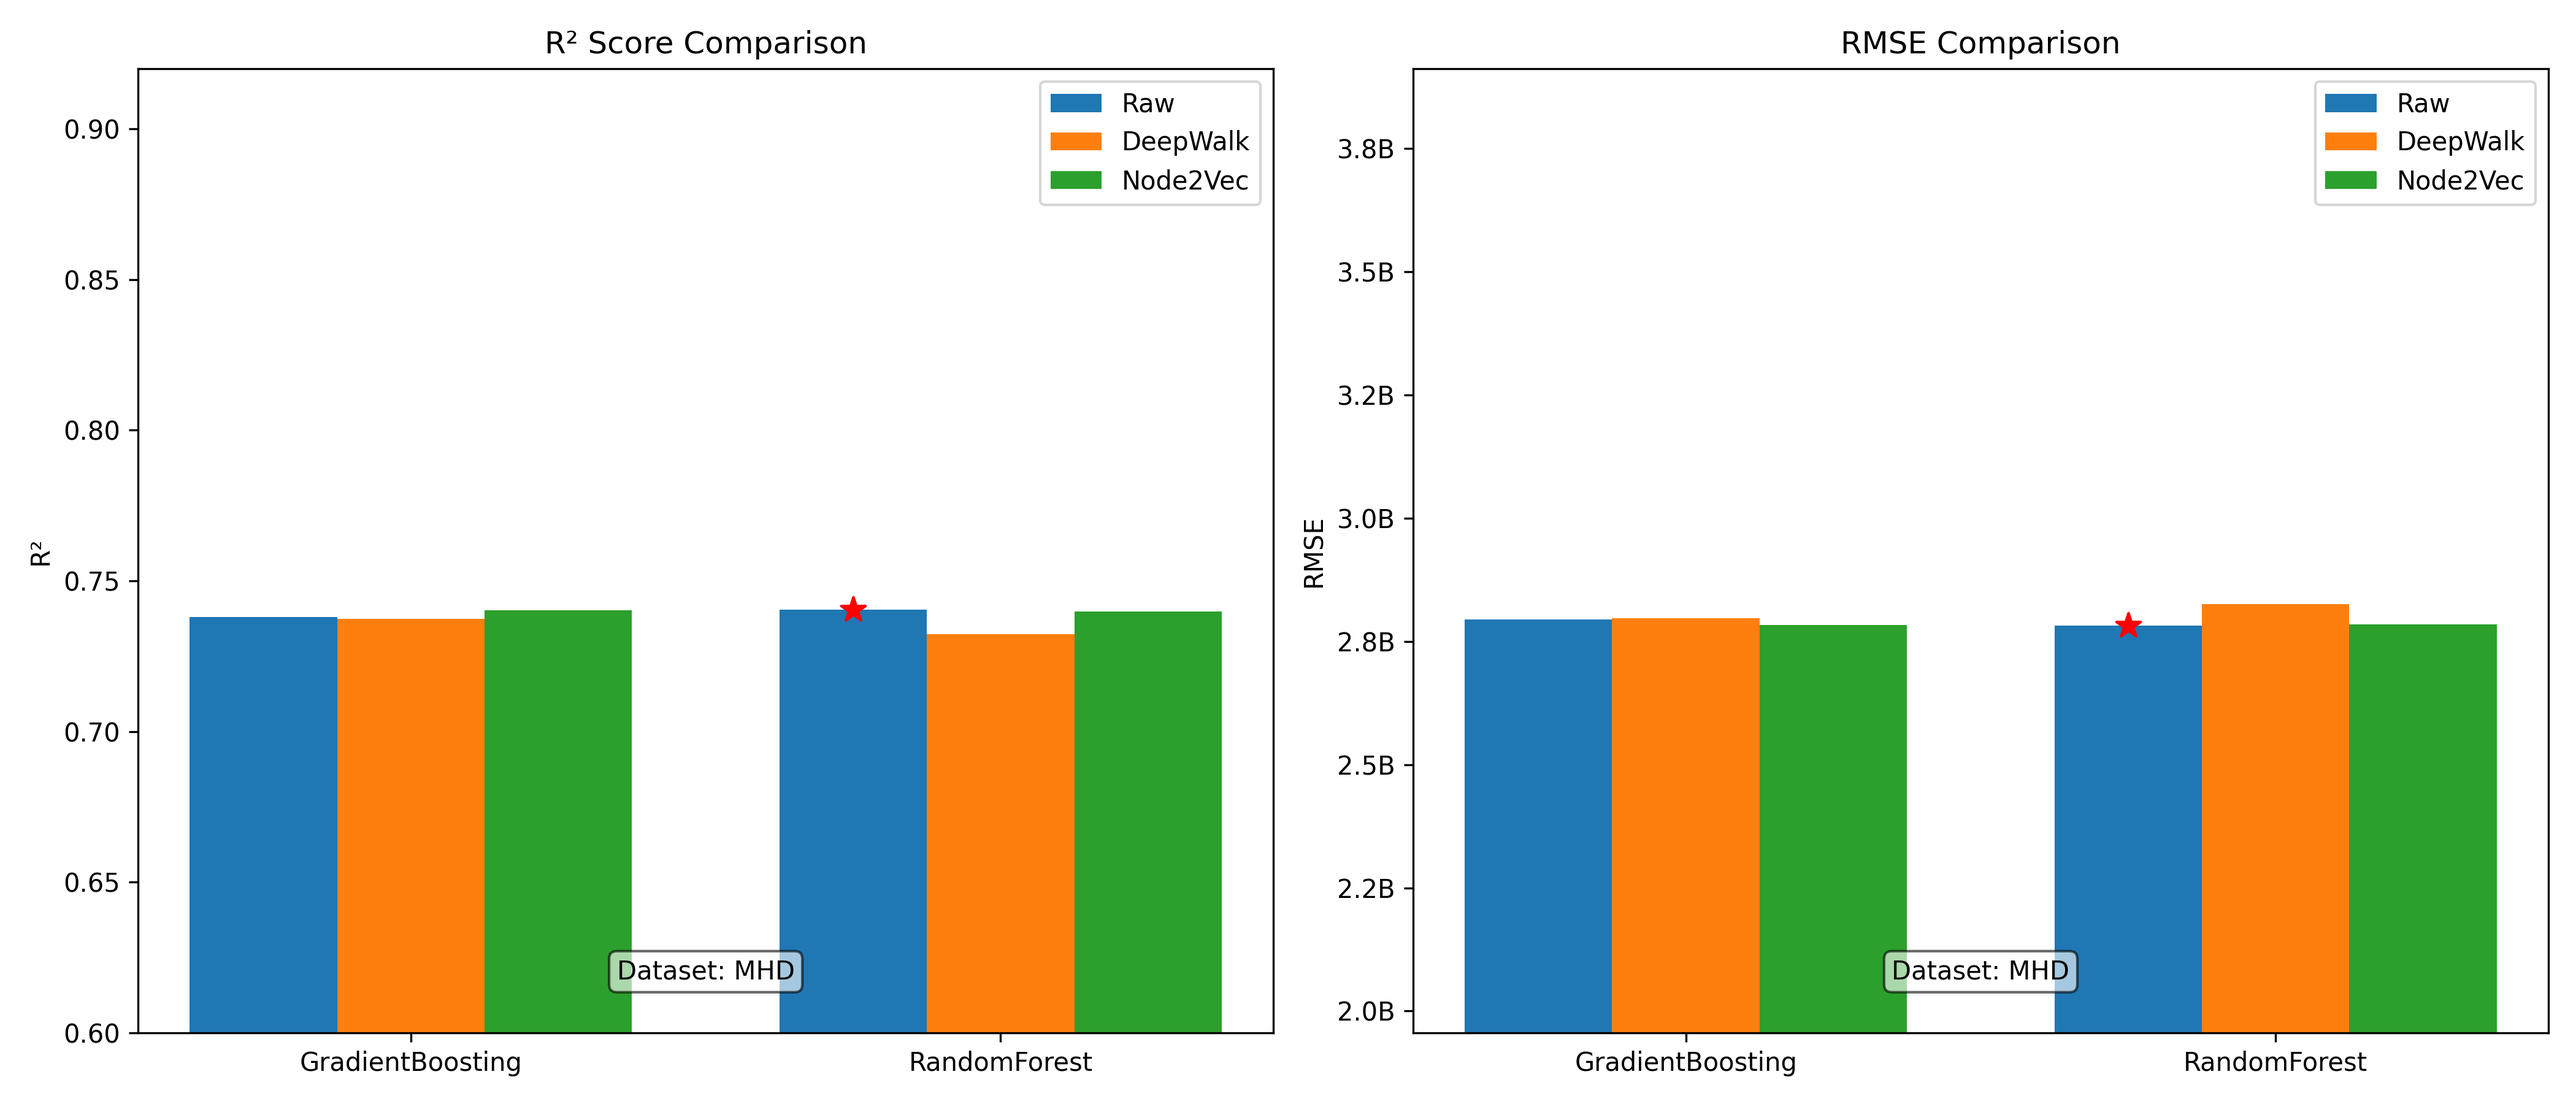
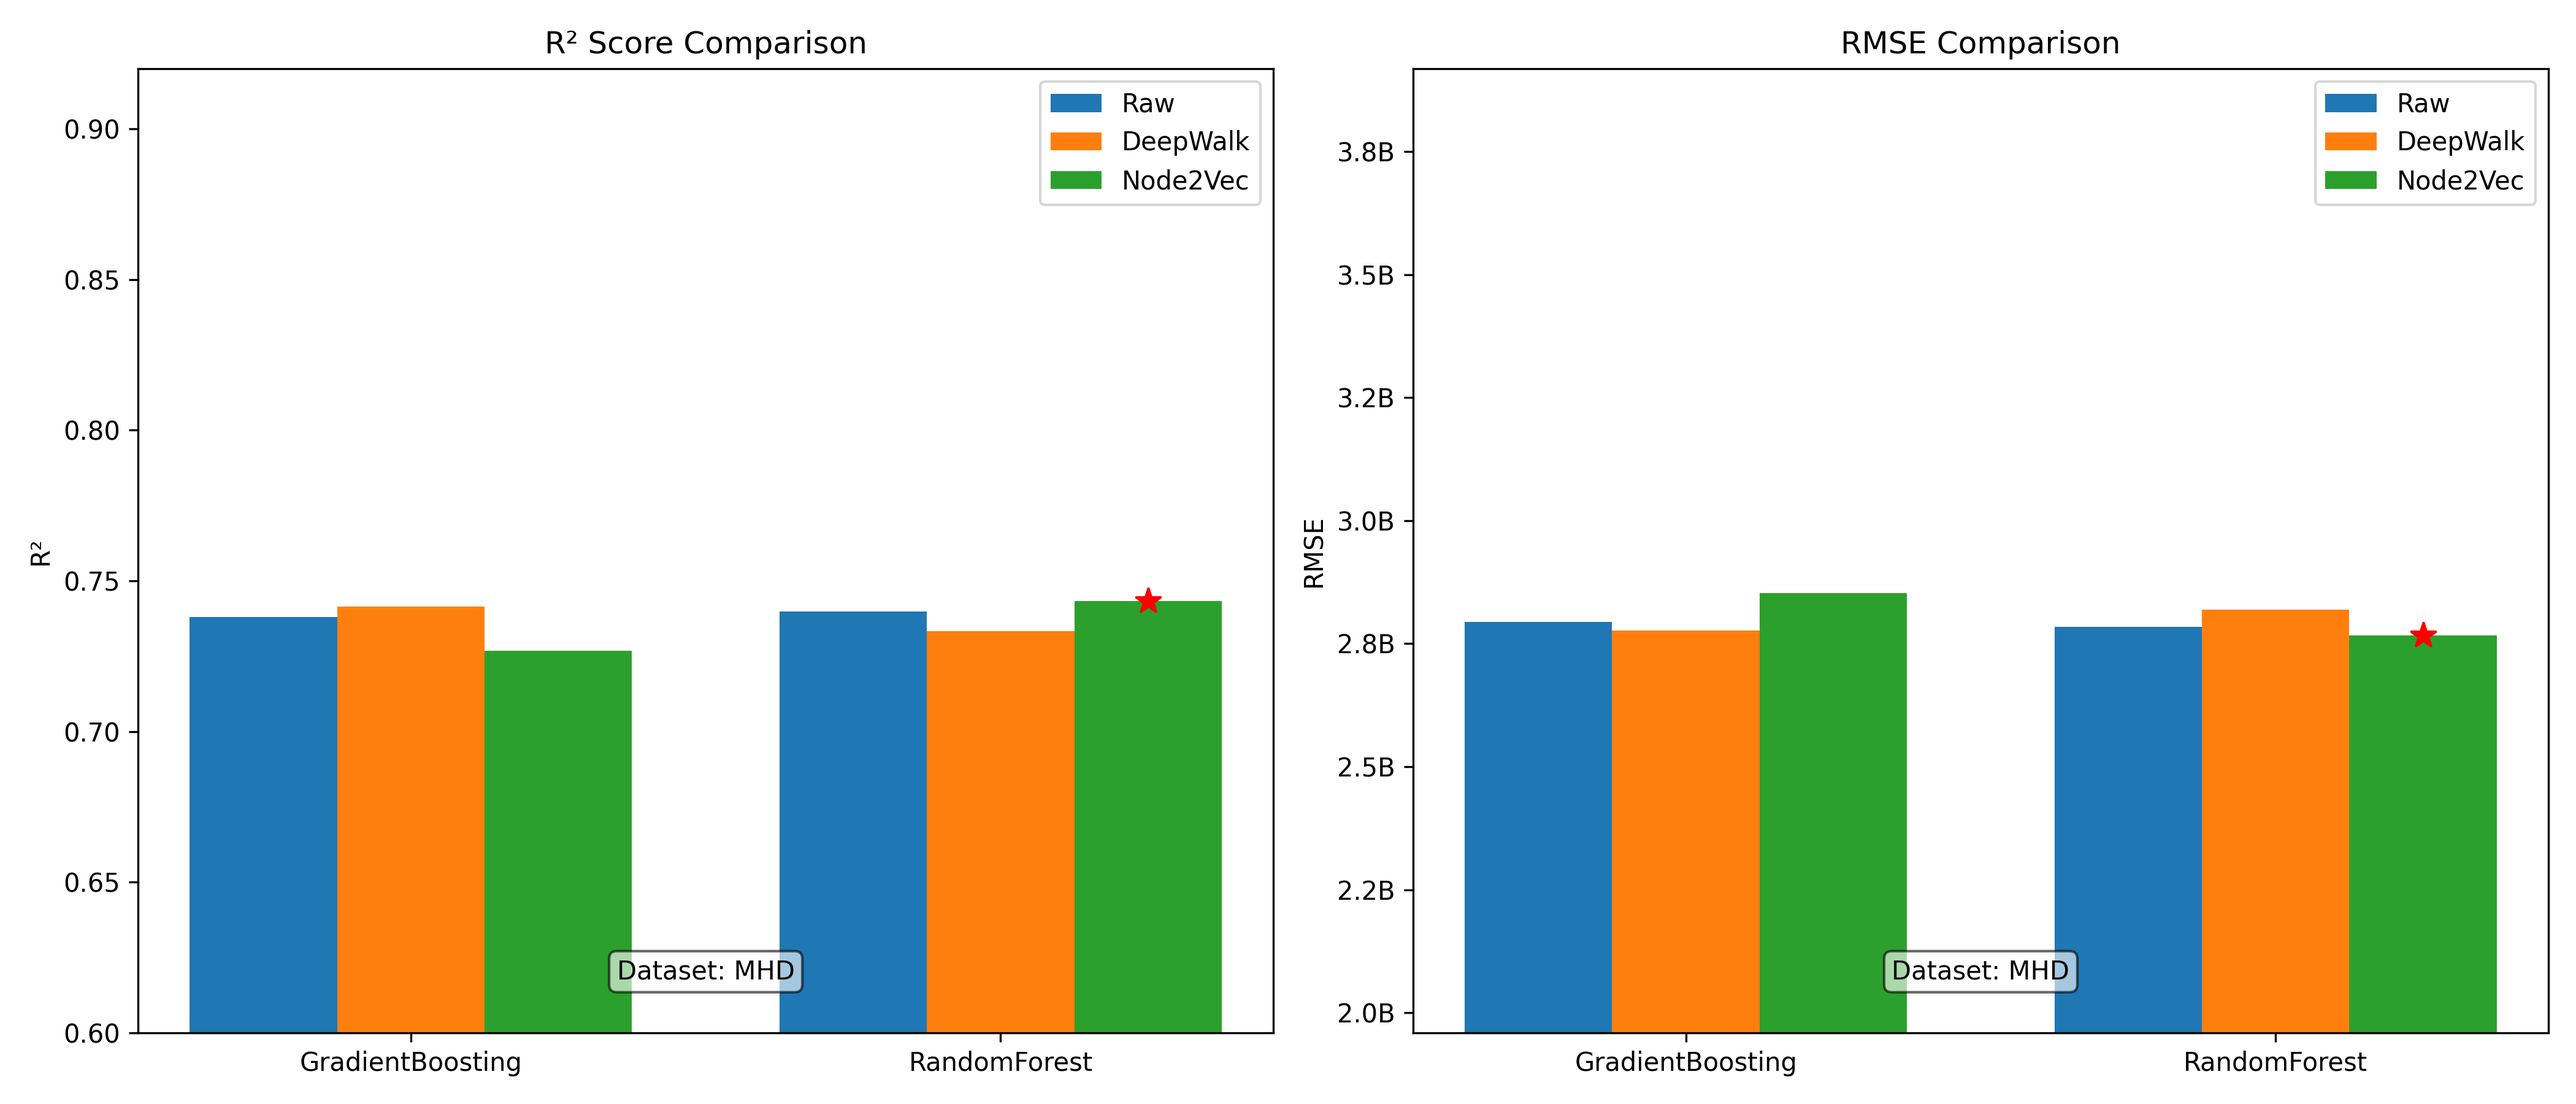
Using kNN for graph creation

diff --git a/utils.py b/utils.py
@@ -16,6 +16,7 @@ from sklearn.model_selection import train_test_split, KFold
 from sklearn.ensemble import GradientBoostingRegressor, RandomForestRegressor
 from sklearn.linear_model import LinearRegression
 from sklearn.metrics import r2_score, mean_absolute_percentage_error, mean_squared_error
+from sklearn.neighbors import NearestNeighbors
 
 from gensim.models import Word2Vec
 from csrgraph import csrgraph
@@ -37,8 +38,9 @@ def load_dataset(dataset_name: str):
             'total_rooms', 'total_bedrooms',
             'population', 'households'
         ]
+        binary_features = ['ocean_proximity']
         threshold = 4000   # meters
-        return df, numeric_features, threshold
+        return df, numeric_features, binary_features, threshold
 
     elif dataset_name == "MHD":
 
@@ -59,8 +61,10 @@ def load_dataset(dataset_name: str):
             'area_sq_m', 'age_years',
             'floor_number', 'number_of_bedrooms'
         ]
+        binary_features = ['elevator', 'parking', 'storage', 'balcony', 'parquet',   
+                    'ceramic_flooring', 'stone_façade', 'garden', 'renovated'] 
         threshold = 40   # meters
-        return df, numeric_features, threshold
+        return df, numeric_features, binary_features
 
     else:
         raise ValueError("Unknown dataset name. Use 'CA' or 'MHD'.")
@@ -69,43 +73,44 @@ def load_dataset(dataset_name: str):
 # -----------------------------
 # Graph construction
 # -----------------------------
-def create_graph_from_dataframe(df, numeric_features, distance_threshold=4000):
-    """Create graph of properties based on spatial distance."""
-    scaler = StandardScaler()
-    df[numeric_features] = scaler.fit_transform(df[numeric_features])
+def create_graph_from_dataframe(df, numeric_features, binary_features, k=35, scale_numeric=True, metric="euclidean"):
+    """
+    Fast KNN-based graph construction for housing datasets.
 
-    coordinates = df[['latitude', 'longitude']].to_numpy()
-    tree = cKDTree(coordinates)
+    - numeric_features: continuous attributes (scaled if scale_numeric=True)
+    - binary_features: categorical/binary attributes (0/1 encoding)
+    - k: number of neighbors per node
+    - metric: distance metric for NearestNeighbors ('euclidean', 'cosine', etc.)
+    """
+    df_copy = df.copy()
+
+    # Scale numeric features if requested
+    if scale_numeric and numeric_features:
+        scaler = StandardScaler()
+        df_copy[numeric_features] = scaler.fit_transform(df_copy[numeric_features])
+
+    # Build feature space (coords + numeric + binary)
+    feature_list = ["latitude", "longitude"] + numeric_features + (binary_features if binary_features else [])
+    X = df_copy[feature_list].to_numpy()
+
+    # Fit Nearest Neighbors
+    nn = NearestNeighbors(n_neighbors=k+1, metric=metric)  # k+1 because first neighbor is itself
+    nn.fit(X)
+    distances, indices = nn.kneighbors(X)
+
+    # Build graph
     G = nx.Graph()
-
     for i, row in df.iterrows():
         node_id = int(row['id'])
         G.add_node(node_id, **row.to_dict())
 
-    pairs = tree.query_pairs(distance_threshold / 111000)
-
-    # Define a function to compute edge weight  
-    def calculate_weight(df, idx1, idx2):  
-        if 'type' in df.columns:
-            # no edge if the types are different in MHD dataset
-            if df.loc[idx1, 'type'] != df.loc[idx2, 'type']:
-                return 0
-        geo_distance = np.linalg.norm(coordinates[idx1] - coordinates[idx2])  
-        # num_distance = np.linalg.norm(df.loc[idx1, numeric_features] - df.loc[idx2, numeric_features])  
-        # binary_similarity = np.sum(df.loc[idx1, binary_features] == df.loc[idx2, binary_features])   
-        # weight = (1 / (1 + geo_distance)) * (1 + binary_similarity) / (1 + num_distance)  
-
-        weight = (1 / (1 + geo_distance))  
-        return weight  
-
-    # Add edges with weights  
-    for idx1, idx2 in tqdm(pairs,  desc="Building graph"):  
-        weight = calculate_weight(df, idx1, idx2)  
-        if weight != 0:  
-            G.add_edge(df.at[idx1, 'id'], df.at[idx2, 'id'], weight=weight)  # Use ids for edges  
+    for i in tqdm(range(len(df)), desc="Building fast KNN graph"):
+        for j in indices[i][1:]:  # skip itself
+            if "type" in df.columns and df.loc[i, "type"] != df.loc[j, "type"]:
+                continue  # enforce type constraint for MHD dataset
+            G.add_edge(df.at[i, "id"], df.at[j, "id"])
 
     return G
-
 
 # -----------------------------
 # DeepWalk

diff --git a/main_hpp.py b/main_hpp.py
@@ -23,8 +23,8 @@ def run_experiments(dataset_name, embedding_sizes=[2, 8, 16, 32, 64], num_walks=
     # -----------------------------
     # Load dataset & build graph
     # -----------------------------
-    df, numeric_features, threshold = load_dataset(dataset_name)
-    G = create_graph_from_dataframe(df, numeric_features, threshold)
+    df, numeric_features, binary_features = load_dataset(dataset_name)
+    G = create_graph_from_dataframe(df, numeric_features, binary_features)
 
     graph_report(G)
 
